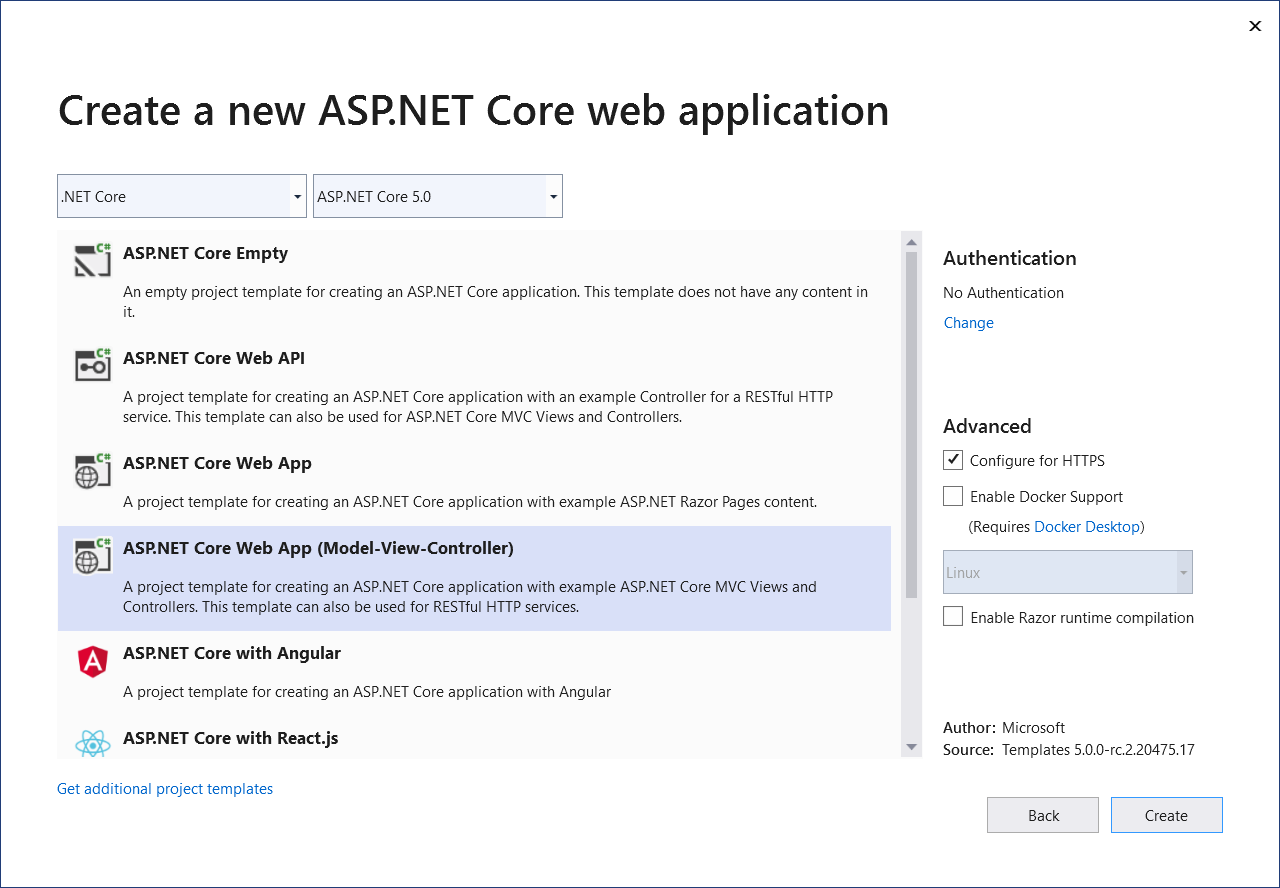
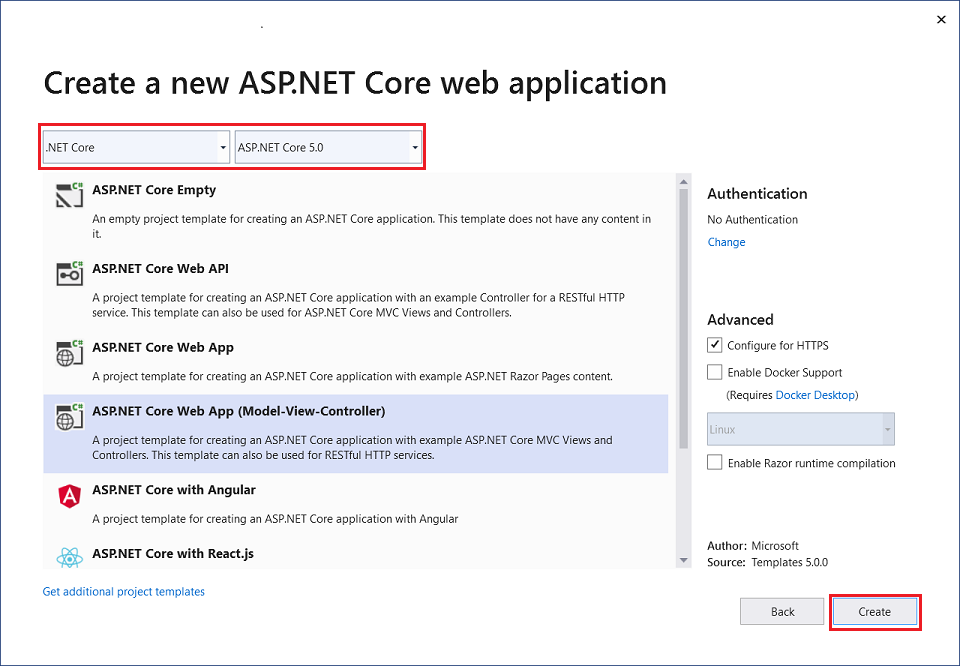
work

diff --git a/aspnetcore/tutorials/first-mvc-app/start-mvc.md b/aspnetcore/tutorials/first-mvc-app/start-mvc.md
@@ -49,14 +49,18 @@ At the end, you have an app that can manage and display movie data.
 
 # [Visual Studio](#tab/visual-studio)
 
-* Start Visual Studio and select **ASP.NET Core Web Application** > **NEXT**.
-* Name the project `MvcMovie`. It's important to use this exact name including capitalization, so the namespaces match when code is copied.
-* Select **Create**.
-* Select **.NET Core** and **ASP.NET Core 5.0** in the dropdowns, and then select **Web Application (Model-View-Controller)** template.
+1. Start Visual Studio and select **Create a new project**.
+1. In the **Create a new project** dialog, select **ASP.NET Core Web Application** > **NEXT**.
+* In the **Configure your new project** dialog, name the project `MvcMovie`. It's important to use this exact name including capitalization, so the namespaces match when code is copied.
+1. Select **Create**.
+1. In the **Create a new ASP.NET Core web application** dialog, select:
+  1. **.NET Core** and **ASP.NET Core 5.0** in the dropdowns.
+  1. **ASP.NET Core Web App (Model-View-Controller)**.
+  1. **Create**
 
 ![Create a new ASP.NET Core web application ](start-mvc/_static/5/mvc.png)
 
-For alternative approaches to create the project, see [Create a new project in Visual Studio](/visualstudio/ide/create-new-project)
+For alternative approaches to create the project, see [Create a new project in Visual Studio](/visualstudio/ide/create-new-project).
 
 Visual Studio used the default template for the MVC project you just created. You have a working app right now by entering a project name and selecting a few options. This is a basic starter project.
 
